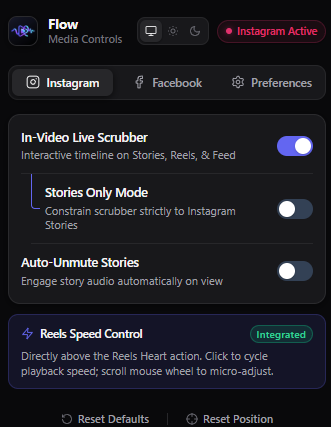
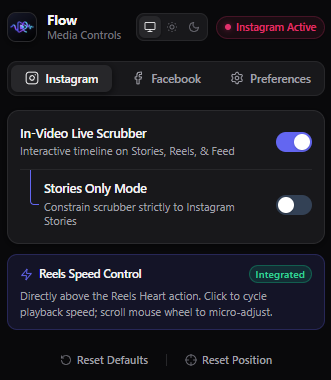
docs: add vibecoding attribution to README & technical architecture specs

diff --git a/docs/ARCHITECTURE.md b/docs/ARCHITECTURE.md
@@ -1,65 +1,112 @@
-# Walkthrough: Modern Aero Luminous UI & Zero Motion Blur
+# Flow — Technical Architecture & Component Specification
 
-Per user request, we completely eliminated all dark murky backgrounds and motion blur, and redesigned the floating Video Speed Controller with a brand-new **Aero Pill Architecture**.
-
----
-
-## 🎯 What Was Changed
-
-### 1. Eliminated All Motion Blur & Dark Murky Backgrounds
-- **Zero Motion Blur**:
-  - Removed all `backdrop-filter: blur(...)` across all components (floating controller, in-video time display, hover bubble, and toast notifications).
-  - Eliminates the blurry trails, GPU stutter, and smudged dark box over playing videos.
-- **Removed Dark Murky Backgrounds**:
-  - Replaced opaque muddy black (`rgba(18, 19, 26, 0.86)` and `#0f1013`) with a clean, crisp, luminous aesthetic (`#ffffff` / `#f8fafc`).
-  - Replaced heavy pitch-black shadows with soft, modern subtle elevation shadows (`rgba(0, 0, 0, 0.14)`).
+This document details the internal design, runtime lifecycle, and event-handling architecture of **Flow — Media Controls for Instagram & Facebook**.
 
 ---
 
-### 2. Redesigned Video Speed Controller (Aero Pill Architecture)
-The floating speed controller has been completely re-architected from a bulky two-row 260px box into a streamlined, high-contrast, single-row **Aero Remote Pill**:
-- **Single-Row Streamlined Layout**:
-  - **Tactile Grip Handle**: Subtle vertical dots for smooth click-and-drag repositioning anywhere on screen.
-  - **Circular Precision Steppers**: Crisp `(−)` and `(+)` buttons with tactile micro-interactions (`0.1x` steps, or `0.25x` with Shift).
-  - **Core Speed Badge (`1.00x`)**:
-    - Bold, high-contrast typography with vibrant gradient accent dot.
-    - **Interactive Gestures**:
-      - Click to instantly reset to `1.00x`.
-      - Drag left / right horizontally to scrub speed continuously with real-time feedback.
-      - Scroll wheel over the badge to adjust speed up or down.
-      - Double-click to toggle between expanded and minimized states.
-  - **Quick Speed Presets Pill**:
-    - Integrated `[ 1x ] [ 1.5x ] [ 2x ]` quick-tap chips that dynamically highlight the active playback speed.
-  - **Minimize / Expand Button**:
-    - Instantly collapses the controller into an ultra-compact mini pill (`⚡ 1.00x`) that takes barely any screen space over the video.
+## 🏛 System Architecture
 
----
+Flow is structured as a Chrome Extension (Manifest V3) adhering to strict separation of concerns across background service workers, content script execution layers, and isolated popup views.
 
-### 3. Crisp Luminous In-Video Elements & Popup
-- **In-Video Time Display (`0:00 / 0:30`)**: Clean white pill with crisp dark typography (`#0f172a`), subtle border, and zero blur.
-- **Hover & Drag Time Bubble**: Clean white floating bubble with crisp dark numbers and zero blur.
-- **Toast Notifications**: Clean luminous pill with vibrant gradient icon.
-- **Extension Popup**: Redesigned to match the clean, bright, modern aesthetic (`#f8fafc` background, crisp white cards, high-contrast readable text, clean switches).
-
----
-
-## 🧪 Verification Results
-
-### Automated Syntax Validation
-```powershell
-node --check background/service-worker.js content/page-bridge.js content/instagram-features.js content/in-video-scrubber.js popup/popup.js content/facebook-features.js content/movable-widget.js content/core-speed-engine.js
 ```
-- All JavaScript files passed syntax checks with exit code `0`.
+┌─────────────────────────────────────────────────────────────┐
+│                      Chrome Browser                         │
+│                                                             │
+│   ┌────────────────────────┐    ┌───────────────────────┐   │
+│   │   Background Worker    │◄───┤    Extension Popup    │   │
+│   │  (service-worker.js)   │    │  (popup.html / .js)   │   │
+│   └───────────┬────────────┘    └───────────────────────┘   │
+│               │ (chrome.storage.local)                      │
+│               ▼                                             │
+│   ┌─────────────────────────────────────────────────────┐   │
+│   │               Social Webpage DOM                    │   │
+│   │          (Instagram.com / Facebook.com)             │   │
+│   │                                                     │   │
+│   │   ┌─────────────────────────────────────────────┐   │   │
+│   │   │            Core Speed Engine                │   │   │
+│   │   │    - Rate Enforcement (Anti-Reset Lock)     │   │   │
+│   │   │    - Dynamic Video Observer & Pitch Sync    │   │   │
+│   │   │    - Adaptive Platform Theme Observer       │   │   │
+│   │   └──────────────────────┬──────────────────────┘   │   │
+│   │                          │                          │   │
+│   │     ┌────────────────────┼────────────────────┐     │   │
+│   │     ▼                    ▼                    ▼     │   │
+│   │ ┌──────────────┐ ┌──────────────┐ ┌──────────────┐  │   │
+│   │ │   In-Video   │ │  Instagram   │ │   Facebook   │  │   │
+│   │ │   Scrubber   │ │ Custom Reels │ │ Story Volume │  │   │
+│   │ │  & Play/Mute │ │ Speed Button │ │   Capsule    │  │   │
+│   │ └──────────────┘ └──────────────┘ └──────────────┘  │   │
+│   └─────────────────────────────────────────────────────┘   │
+└─────────────────────────────────────────────────────────────┘
+```
 
 ---
 
-## 🔄 How to Reload & Test in Chrome
+## 🧩 Core Subsystems
 
-1. Open Chrome and navigate to `chrome://extensions`.
-2. Click the **Reload (🔄)** icon on **Video Speed Controller (Instagram & Facebook)**.
-3. Open any video or Reel on [Instagram](https://www.instagram.com) or [Facebook](https://www.facebook.com):
-   - Notice the brand-new **Aero Pill** controller: clean, crisp, modern white pill with zero dark background and zero motion blur.
-   - **Click the preset buttons** (`1x`, `1.5x`, `2x`) for instant speed shifting.
-   - **Drag the speed badge** left or right to scrub speed continuously.
-   - **Click the minimize button** to collapse it into a tiny, unobtrusive speed badge.
-   - Notice the in-video timeline scrubber at the bottom: smooth, responsive, and completely free of blurry artifacts.
+### 1. Core Speed Engine (`content/core-speed-engine.js`)
+- **Meta Anti-Reset Engine**: Meta's video players (Shaka / React Native Web) continuously reset `video.playbackRate = 1.0` during stream rendition switches, buffering events, or story advancing. Flow hooks `ratechange`, `play`, `playing`, `loadedmetadata`, `loadeddata`, and `canplay` listeners to enforce the user's desired speed lock without audible pitch warping (`preservesPitch = true`).
+- **Dynamic DOM Discovery**: Observes incoming media nodes via `MutationObserver` on `document.body` or `document.documentElement`, ensuring zero missed videos across infinite-scrolling feeds and AJAX route transitions.
+- **Adaptive Theme Engine**: Reads native platform color attributes (`_9dls`, `__fb-dark-mode`, `data-color-mode`) and listens to OS media queries (`prefers-color-scheme`) to toggle `.vsc-theme-dark` and `.vsc-theme-light` tokens dynamically.
+
+### 2. In-Video Scrubber & Timeline (`content/in-video-scrubber.js`)
+- **Real-Time Progress Tracking**: Employs a low-overhead ticker via `requestAnimationFrame` while videos are playing, decoupling timeline visual tracking from DOM reflows.
+- **Micro-Interaction Scrubbing**: Users can click or drag anywhere along the timeline track to seek (`video.currentTime = targetTime`). A floating timestamp bubble (`0:14 / 0:45`) previews seek targets smoothly.
+- **Integrated Play/Pause**: Direct toggle embedded into the left edge of the bottom bar with state synchronization.
+
+### 3. Coordinate Hit-Testing & Link-Hijack Defense
+Social media platforms frequently overlay transparent clickable cards or links (such as Facebook Stories displaying shared Instagram posts using `<div class="storiesCardOverlay/root"><a href="...">`).
+
+To ensure that media controls remain 100% responsive and never trigger unwanted profile navigations:
+1. **Window-Level Capture Handlers**:
+   - `handleCaptureDown` and `handleCaptureMove` intercept `pointerdown`, `mousedown`, `touchstart`, `pointermove`, and `click` in the **capture phase** (`{ capture: true }`) directly on `window`.
+2. **Screen Coordinate Hit-Testing**:
+   - `findPlayBtnAtPoint(x, y)`, `findVolBtnAtPoint(x, y)`, `findVolPopupAtPoint(x, y)`, and `findScrubberAtPoint(x, y)` compute geometric bounding boxes (`getBoundingClientRect()`) with generous hit margins.
+   - If an interaction lands within any extension control boundary, Flow calls:
+     ```javascript
+     e.preventDefault();
+     e.stopPropagation();
+     e.stopImmediatePropagation();
+     ```
+     This neutralizes underlying `<a>` tags before the browser can initiate navigation.
+3. **CSS Hit-Box Clipping**:
+   - `div[class*="storiesCardOverlay"]` is styled with `clip-path: inset(0 0 54px 0) !important;` in `content/overlay.css`. This physically removes the bottom 54px region from the overlay's hit testing area.
+
+### 4. Zero-Jitter Volume Controls
+- **60fps DOM Isolation**: No DOM re-parenting (`appendChild`) or style display resets occur inside the continuous animation ticker, preserving active mouse hover states and preventing CSS transition restarts.
+- **Tabular Numeric Stability**: Timestamp text `.vsc-invideo-time-display` uses `font-variant-numeric: tabular-nums` and a fixed `min-width: 68px`, ensuring width changes between single- and double-digit seconds never cause flex row layout shifts.
+- **Zero-Lag Dragging**: While dragging the vertical volume slider, `.vsc-vol-dragging` disables CSS transitions (`transition: none !important;`) on popup, thumb, and fill, providing instant, 1:1 hardware-accelerated responsiveness.
+
+### 5. Instagram Reels Speed Cycling (`content/instagram-features.js`)
+- **Native Alignment**: Injected directly into Instagram's vertical right-hand action column, positioned immediately above the Heart (Like) button.
+- **Appearance Adaptation**: Seamlessly flips between Dark Mode (`rgba(255, 255, 255, 0.15)`) and Light Mode (`#18191a` text / icon) using CSS custom properties.
+- **Interactivity**: Clicking cycles speed presets (`1.0x` → `1.25x` → `1.5x` → `1.75x` → `2.0x`); scrolling mouse wheel over the button micro-adjusts playback speed by `±0.25x`.
+
+### 6. Facebook Stories Sound Capsule (`content/facebook-features.js`)
+- **Instagram-Matched Capsule**: Circular sound button located in the bottom timeline row that expands vertically on hover to reveal a precision volume slider.
+- **Global Volume Persistence**: Audio level is synced across sessions using `localStorage` and `chrome.storage.local`.
+
+---
+
+## 🎨 Design Tokens & Theming (`content/overlay.css` & `popup/popup.css`)
+
+All components share a consistent design token system:
+
+| Token / Role | Light Mode Value | Dark Mode Value |
+| :--- | :--- | :--- |
+| **Surface Background** | `#ffffff` / `rgba(255,255,255,0.94)` | `#161b22` / `rgba(24,24,24,0.94)` |
+| **Border / Stroke** | `rgba(0, 0, 0, 0.08)` | `rgba(255, 255, 255, 0.16)` |
+| **Primary Text** | `#0f172a` | `#f0f6fc` |
+| **Secondary Text** | `#64748b` | `#8b949e` |
+| **Accent / Brand** | `#6366f1` (Indigo) | `#818cf8` |
+| **Shadow Token** | `0 4px 16px rgba(0,0,0,0.12)` | `0 4px 16px rgba(0,0,0,0.50)` |
+
+---
+
+## 🛠 Verification & Linting
+
+Run automated syntax validation:
+```bash
+npm run lint
+```
+Checks all JavaScript entry points (`background/`, `content/`, and `popup/`) using Node.js AST parsing.

diff --git a/README.md b/README.md
@@ -12,11 +12,12 @@
   <a href="https://github.com/Mohamed-Moslem-Allouch/flow-media-controls/releases"><img src="https://img.shields.io/badge/version-1.1.0-6366f1.svg?style=flat-square" alt="Version"></a>
   <a href="https://developer.chrome.com/docs/extensions/mv3/"><img src="https://img.shields.io/badge/manifest-v3-blue.svg?style=flat-square" alt="Manifest V3"></a>
   <a href="LICENSE"><img src="https://img.shields.io/badge/license-MIT-emerald.svg?style=flat-square" alt="License"></a>
+  <a href="https://github.com/Mohamed-Moslem-Allouch/flow-media-controls"><img src="https://img.shields.io/badge/built%20with-vibecoding-ff69b4.svg?style=flat-square" alt="Built with vibecoding"></a>
   <a href="https://github.com/Mohamed-Moslem-Allouch/flow-media-controls/pulls"><img src="https://img.shields.io/badge/PRs-welcome-brightgreen.svg?style=flat-square" alt="PRs Welcome"></a>
 </p>
 
 <p align="center">
-  <sub>Made with ❤ by <strong>Mohamed Moslem Allouch</strong></sub>
+  <sub>Made with ❤ and vibecoding by <strong>Mohamed Moslem Allouch</strong></sub>
 </p>
 
 ---
@@ -173,9 +174,10 @@ Copyright © 2025 **Mohamed Moslem Allouch**.
 **Mohamed Moslem Allouch**
 - GitHub: [@Mohamed-Moslem-Allouch](https://github.com/Mohamed-Moslem-Allouch)
 - Project: [Flow — Media Controls](https://github.com/Mohamed-Moslem-Allouch/flow-media-controls)
+- Built with: **vibecoding**
 
 ---
 
 <p align="center">
-  <sub>Made by Mohamed Moslem Allouch</sub>
+  <sub>Made by Mohamed Moslem Allouch with vibecoding</sub>
 </p>
